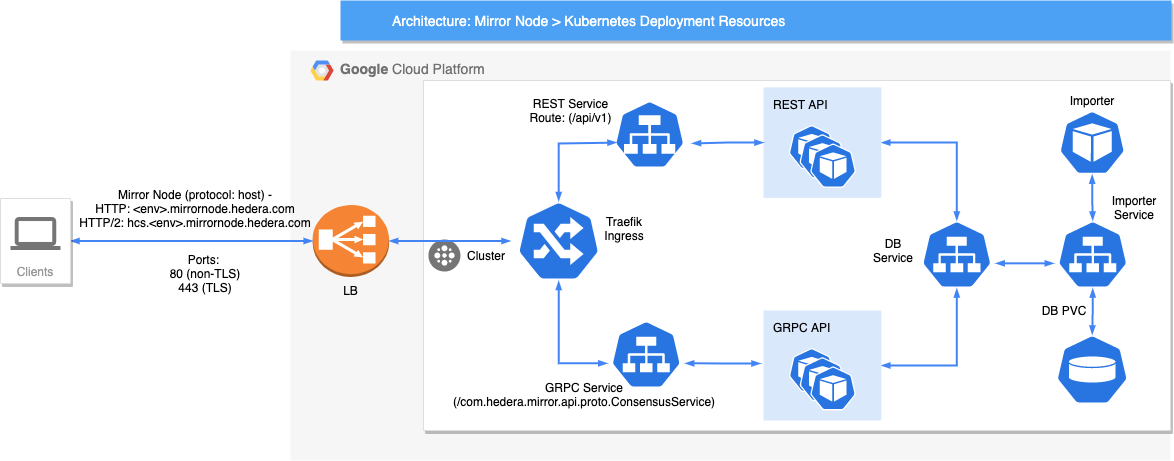
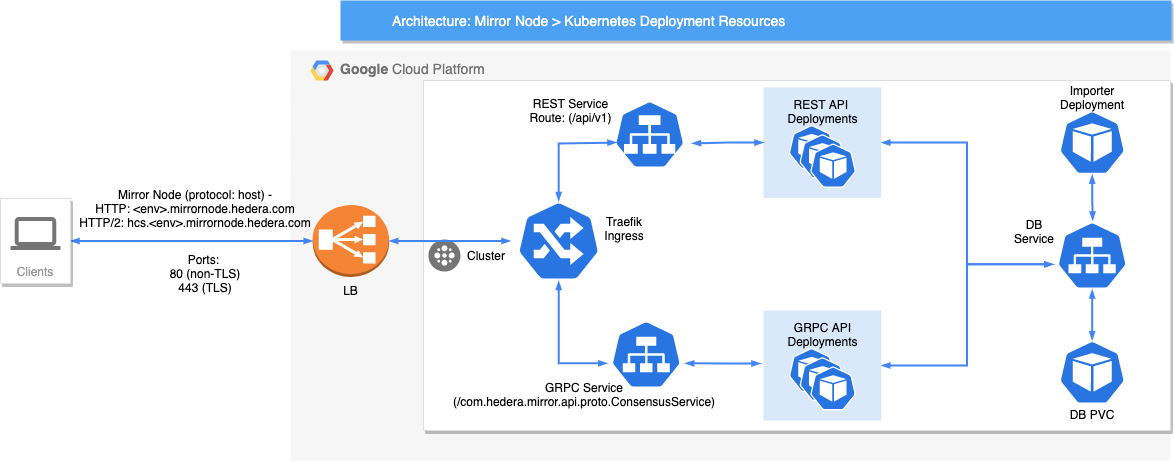
Update arch diagram and default traefik to CLusterIP

diff --git a/charts/README.md b/charts/README.md
@@ -127,10 +127,6 @@ When deploying in GCP, the following steps may be taken to use container-native 
                    "443":{"name": "<tls_neg_name>"}
                 }
               }'
-       spec:
-         # externalTrafficPolicy cannot be set when service type is cluster
-         externalTrafficPolicy:
-       type: ClusterIP
    ```
 
     > **_Note:_** Ensure the NEG names are cluster unique to support shared NEGs across separate globally distributed clusters
